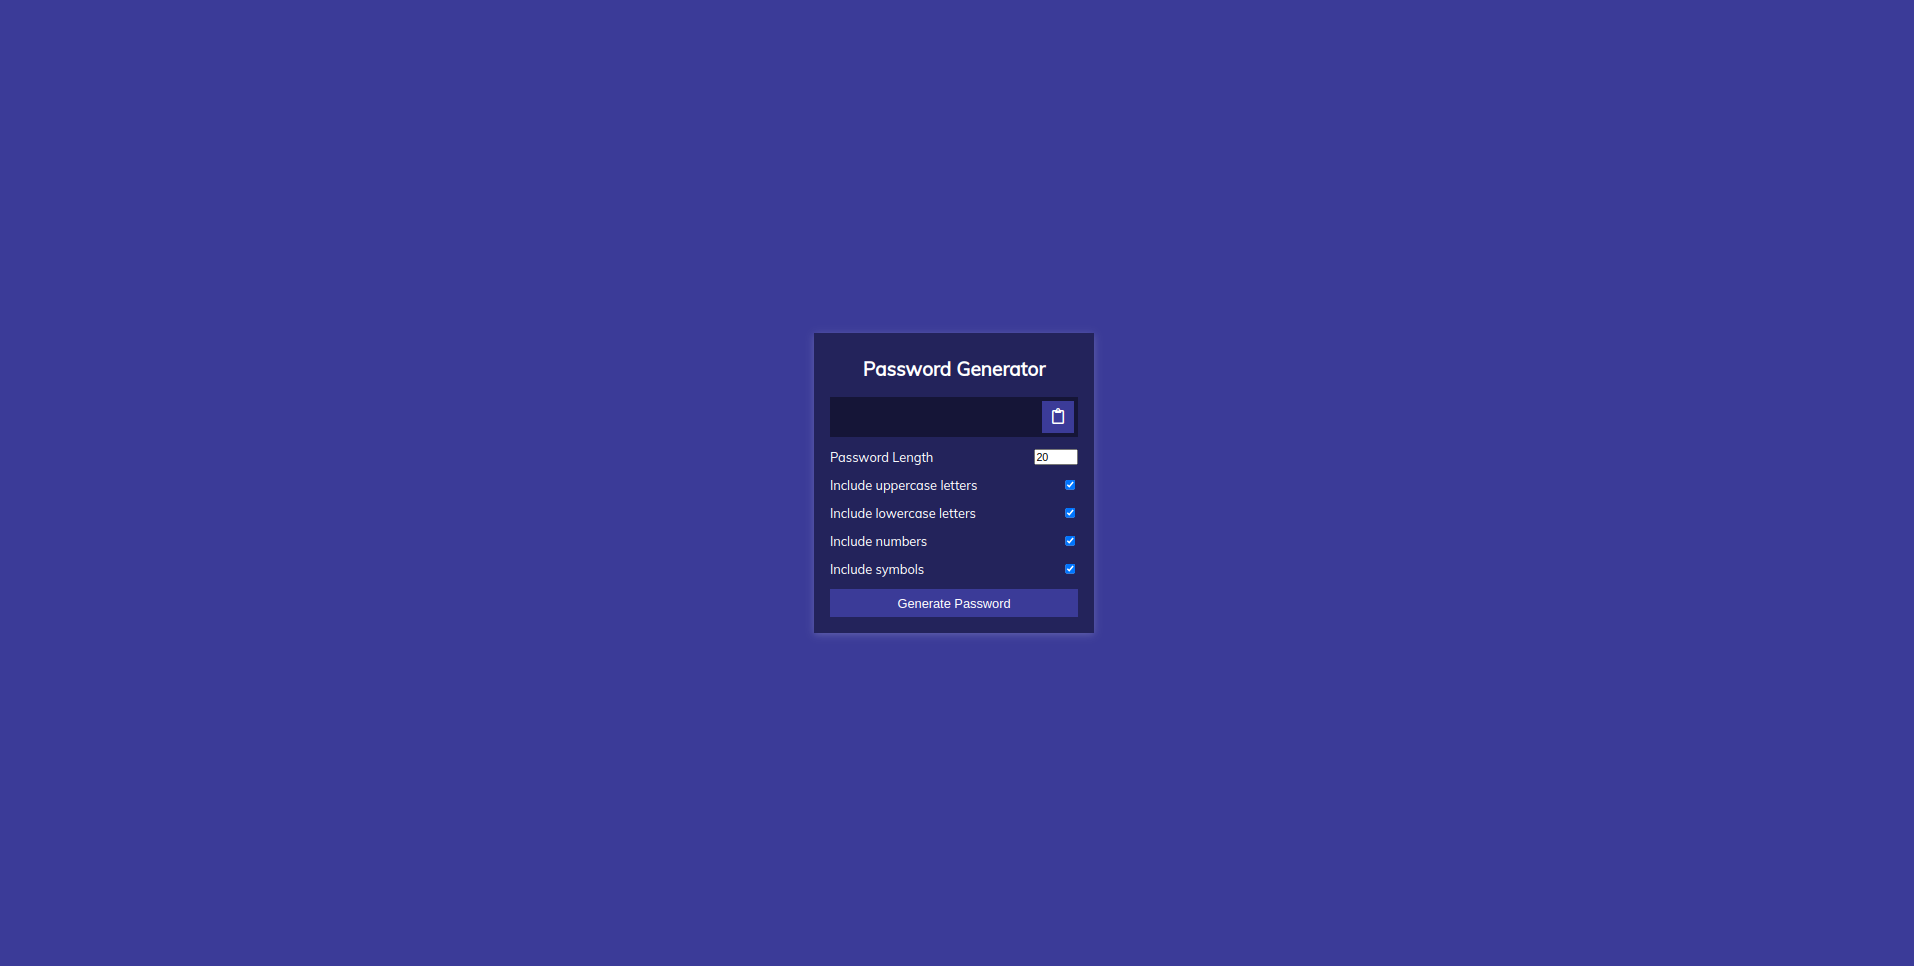
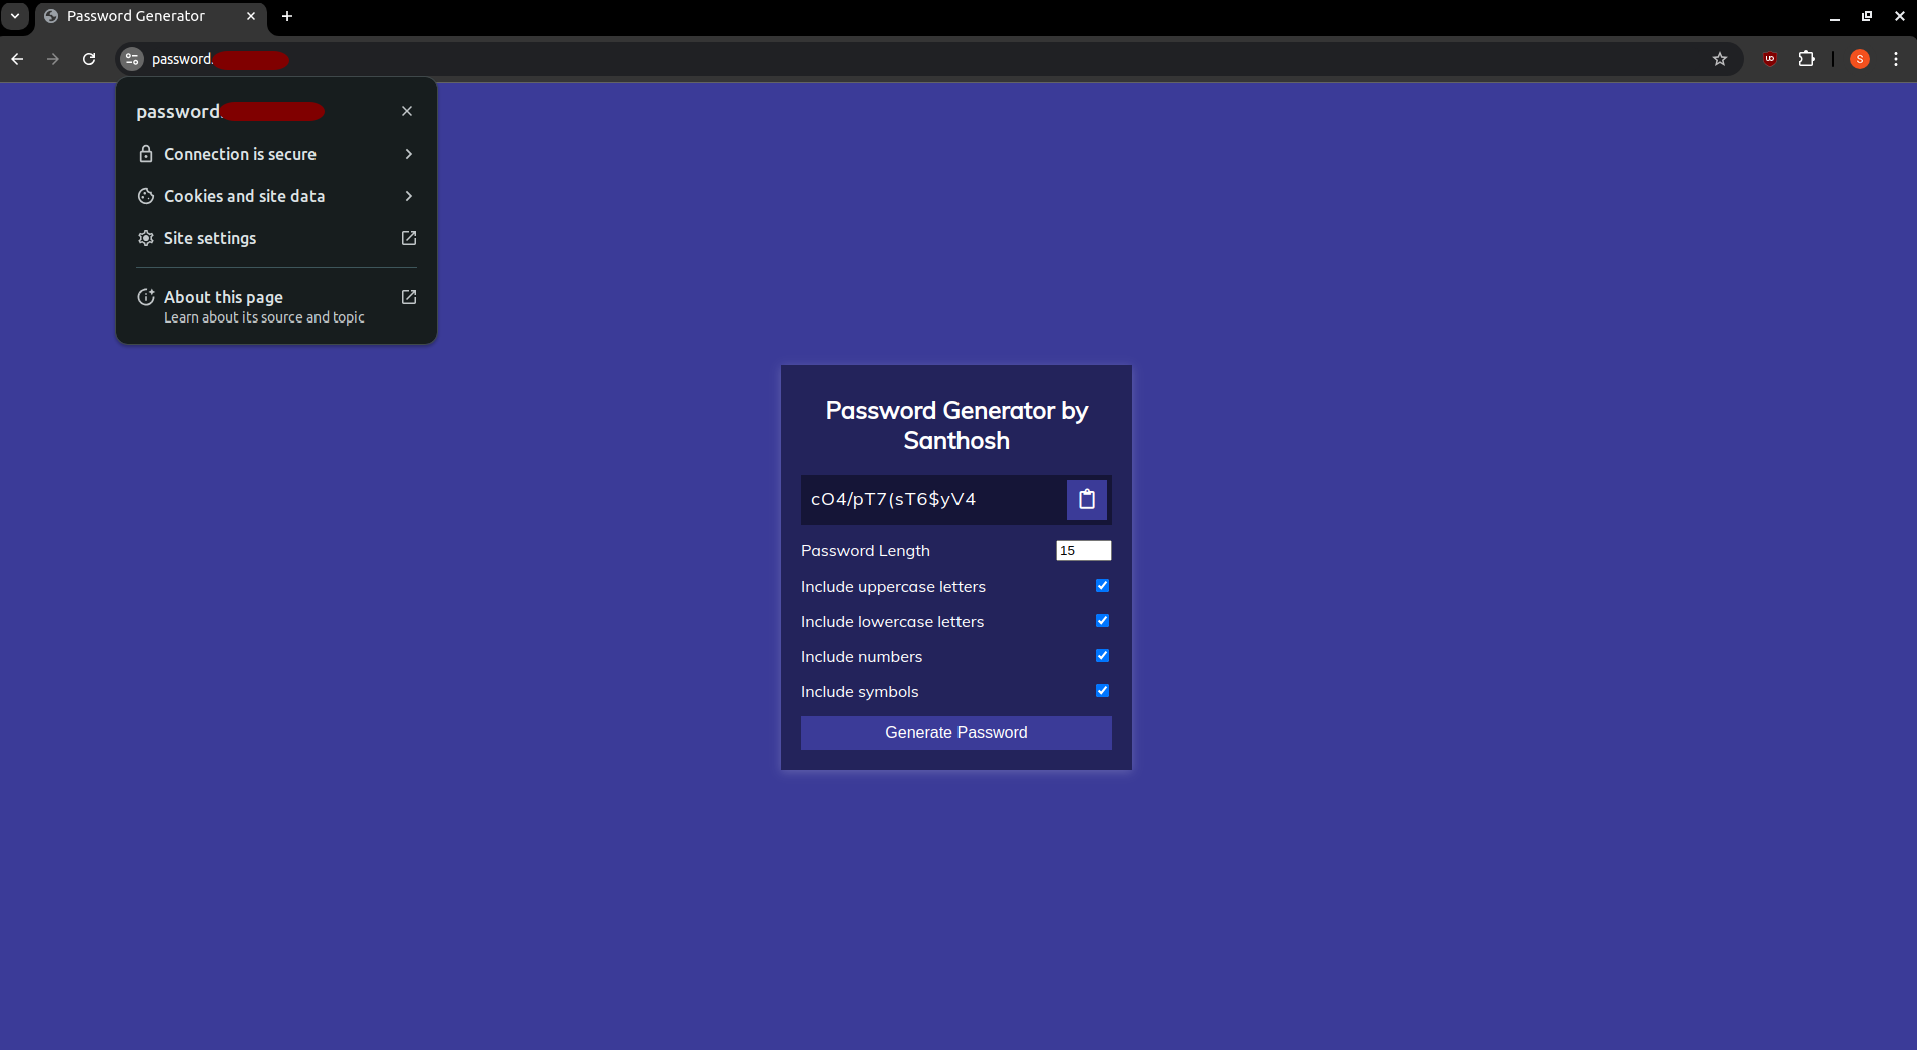
Update project

Changed region(s): [[0.0, 0.0, 1.0, 0.3416], [0.4007, 0.3416, 0.6165, 0.7453]]

diff --git a/go-web-app/devops-go-web-app/password/index.html b/go-web-app/devops-go-web-app/password/index.html
@@ -9,7 +9,7 @@
   </head>
   <body>
     <div class="container">
-      <h2>Password Generator</h2>
+      <h2>Password Generator by Santhosh</h2>
       <div class="result-container">
         <span id="result"></span>
         <button class="btn" id="clipboard">

diff --git a/go-web-app/go-web-app/password/index.html b/go-web-app/go-web-app/password/index.html
@@ -9,7 +9,7 @@
   </head>
   <body>
     <div class="container">
-      <h2>Password Generator</h2>
+      <h2>Password Generator by Santhosh</h2>
       <div class="result-container">
         <span id="result"></span>
         <button class="btn" id="clipboard">

diff --git a/go-web-app/devops-go-web-app/main.go b/go-web-app/devops-go-web-app/main.go
@@ -6,11 +6,8 @@ import (
 )
 
 func main() {
-	// Serve the 3d-boxes-background page at the root URL
-	http.Handle("/", http.FileServer(http.Dir("./non")))
-
-	// Serve the password page at the /password URL
-	http.Handle("/password/", http.StripPrefix("/password", http.FileServer(http.Dir("./password"))))
+	// Serve the password page at the root URL
+	http.Handle("/", http.StripPrefix("/", http.FileServer(http.Dir("./password"))))
 
 	// Start the server on port 8080
 	log.Println("Listening on :8080...")

diff --git a/go-web-app/go-web-app/main.go b/go-web-app/go-web-app/main.go
@@ -6,11 +6,8 @@ import (
 )
 
 func main() {
-	// Serve the 3d-boxes-background page at the root URL
-	http.Handle("/", http.FileServer(http.Dir("./non")))
-
-	// Serve the password page at the /password URL
-	http.Handle("/password/", http.StripPrefix("/password", http.FileServer(http.Dir("./password"))))
+	// Serve the password page at the root URL
+	http.Handle("/", http.StripPrefix("/", http.FileServer(http.Dir("./password"))))
 
 	// Start the server on port 8080
 	log.Println("Listening on :8080...")

diff --git a/go-web-app/devops-go-web-app/main_test.go b/go-web-app/devops-go-web-app/main_test.go
@@ -13,11 +13,11 @@ func TestRootHandler(t *testing.T) {
 	}
 
 	rr := httptest.NewRecorder()
-	handler := http.FileServer(http.Dir("./non"))
+	handler := http.StripPrefix("/", http.FileServer(http.Dir("./password")))
 
 	handler.ServeHTTP(rr, req)
 
-	if status := rr.Code; status != http.StatusNotFound {
+	if status := rr.Code; status != http.StatusOK {
 		t.Errorf("handler returned wrong status code: got %v want %v",
 			status, http.StatusOK)
 	}

diff --git a/go-web-app/go-web-app/main_test.go b/go-web-app/go-web-app/main_test.go
@@ -13,11 +13,11 @@ func TestRootHandler(t *testing.T) {
 	}
 
 	rr := httptest.NewRecorder()
-	handler := http.FileServer(http.Dir("./non"))
+	handler := http.StripPrefix("/", http.FileServer(http.Dir("./password")))
 
 	handler.ServeHTTP(rr, req)
 
-	if status := rr.Code; status != http.StatusNotFound {
+	if status := rr.Code; status != http.StatusOK {
 		t.Errorf("handler returned wrong status code: got %v want %v",
 			status, http.StatusOK)
 	}

diff --git a/go-web-app/devops-go-web-app/README.md b/go-web-app/devops-go-web-app/README.md
@@ -1,16 +1,33 @@
-# Go Web Application
+# Go Web Application After Devops Practices
 
-This is a simple password genertate written in Golang. It uses the `net/http` package to serve HTTP requests.
+### 🚀 DevOps Workflow Documentation
 
-## Running the server
+#### 1. 🐳 Dockerize the Go Application
+- Containerize the Go application using Docker, creating a Dockerfile that includes all necessary dependencies and build instructions.
 
-To run the server, execute the following command:
+#### 2. ⚙ Create Kubernetes Manifests
+- Develop Kubernetes manifests to define the application's deployment, service, and other necessary resources in the Kubernetes cluster.
 
-```bash
-go run main.go
-```
+#### 3. 📦 Create Helm Charts
+- Package the Kubernetes manifests into Helm charts for easier management and versioning. Ensure the charts are configurable using `values.yml`.
 
-The server will start on port 8080. You can access it by navigating to `http://localhost:8080/password/` in your web browser.
+#### 4. 🌐 Configure Ingress Controller
+- Set up and configure an Ingress Controller in the Kubernetes cluster to manage external access to the services.
+
+#### 5. 🔄 Continuous Integration (CI) with GitHub Actions
+- Implement a CI pipeline using GitHub Actions:
+  - **🔨 Compile and Unit Test:** Automatically compile the Go application and run unit tests on each commit.
+  - **🧐 Lint and Static Analysis:** Perform linting and static code analysis to maintain code quality.
+  - **🐳 Dockerize and Push to Docker Hub:** Build the Docker image and push it to Docker Hub upon successful tests.
+  - **🏷 Update Helm Chart Tags:** Automatically update the tags in the `values.yml` of the Helm chart to match the latest Docker image.
+
+#### 6. 🚀 Continuous Deployment (CD) with ArgoCD
+- **📥 Deploy ArgoCD:** Install and configure ArgoCD in the Kubernetes cluster for continuous deployment.
+- **⚡ Automate Deployment:**
+  - Create a new ArgoCD application to monitor the `values.yml` file in the Helm chart repository.
+  - Automatically deploy updates to the Kubernetes cluster when changes are detected in the Helm chart.
+
+
 
 ## Looks like this
 

diff --git a/go-web-app/go-web-app/README.md b/go-web-app/go-web-app/README.md
@@ -10,7 +10,7 @@ To run the server, execute the following command:
 go run main.go
 ```
 
-The server will start on port 8080. You can access it by navigating to `http://localhost:8080/password/` in your web browser.
+The server will start on port 8080. You can access it by navigating to `http://localhost:8080/` in your web browser.
 
 ## Looks like this
 

diff --git a/go-web-app/devops-go-web-app/ingress-controller/nginx/01-installation.md b/go-web-app/devops-go-web-app/ingress-controller/nginx/01-installation.md
@@ -1,0 +1,7 @@
+# [Install Nginx Ingress](https://kubernetes.github.io/ingress-nginx/deploy/)
+
+### Install Nginx Ingress Controller on AWS
+
+```bash
+kubectl apply -f https://raw.githubusercontent.com/kubernetes/ingress-nginx/controller-v1.11.1/deploy/static/provider/aws/deploy.yaml
+```

diff --git a/go-web-app/devops-go-web-app/gitops/argocd/01-install.md b/go-web-app/devops-go-web-app/gitops/argocd/01-install.md
@@ -1,0 +1,8 @@
+# Install Argo CD
+
+## [Install Argo CD using manifests](https://argo-cd.readthedocs.io/en/stable/getting_started/)
+
+```bash
+kubectl create namespace argocd
+kubectl apply -n argocd -f https://raw.githubusercontent.com/argoproj/argo-cd/stable/manifests/install.yaml
+```
